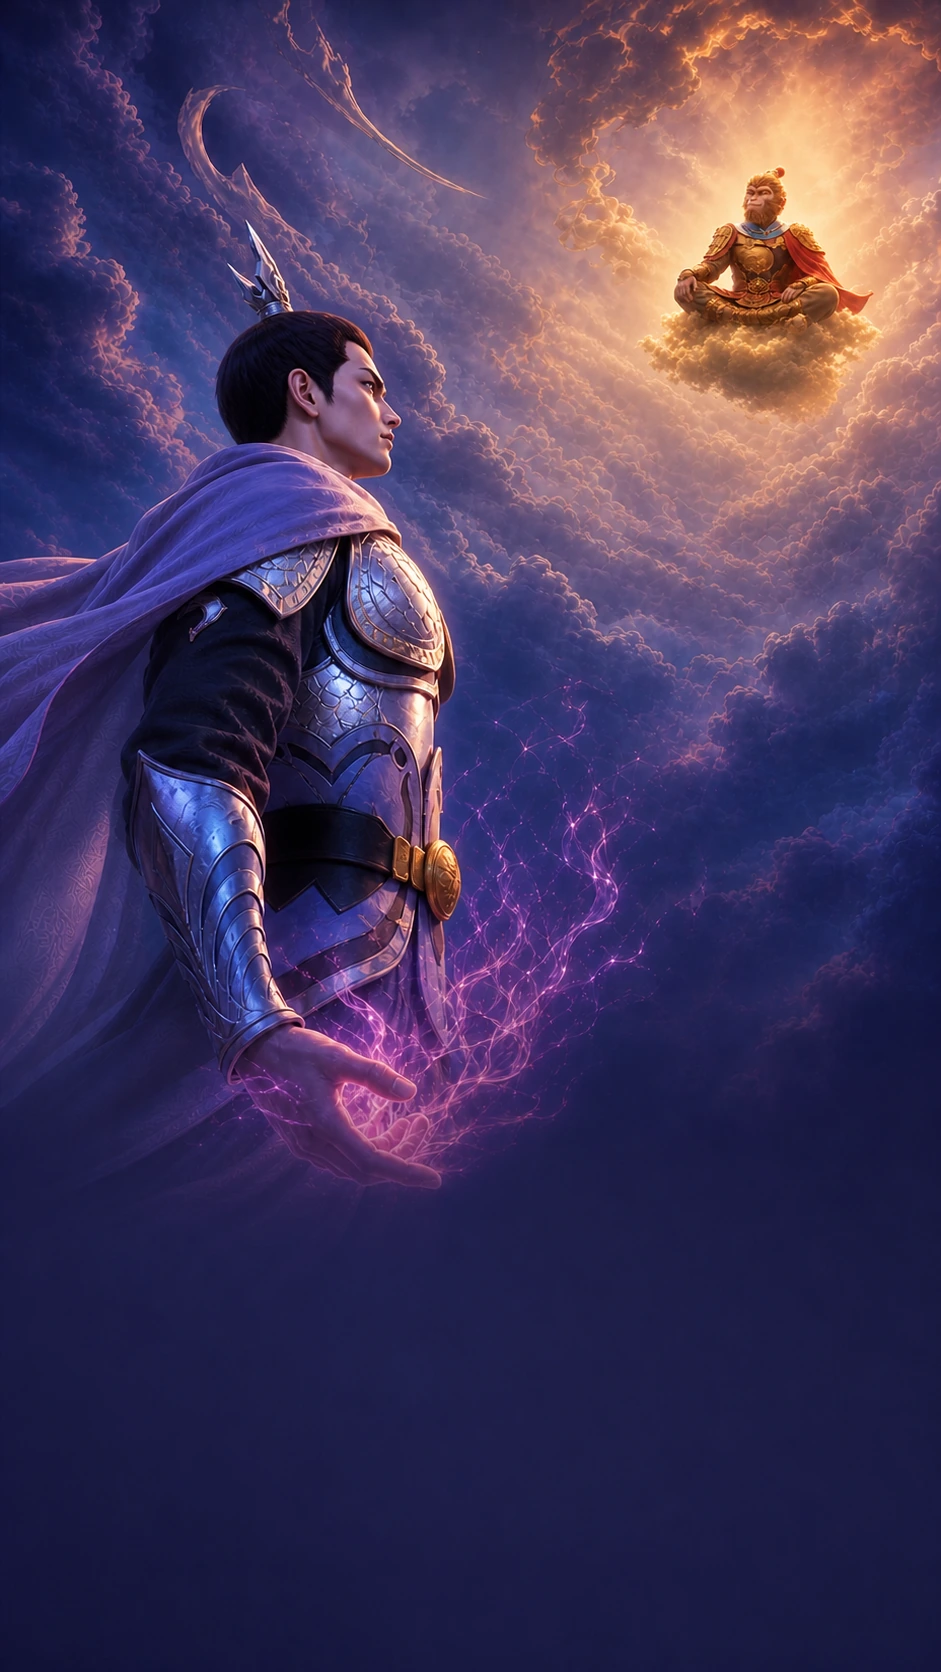
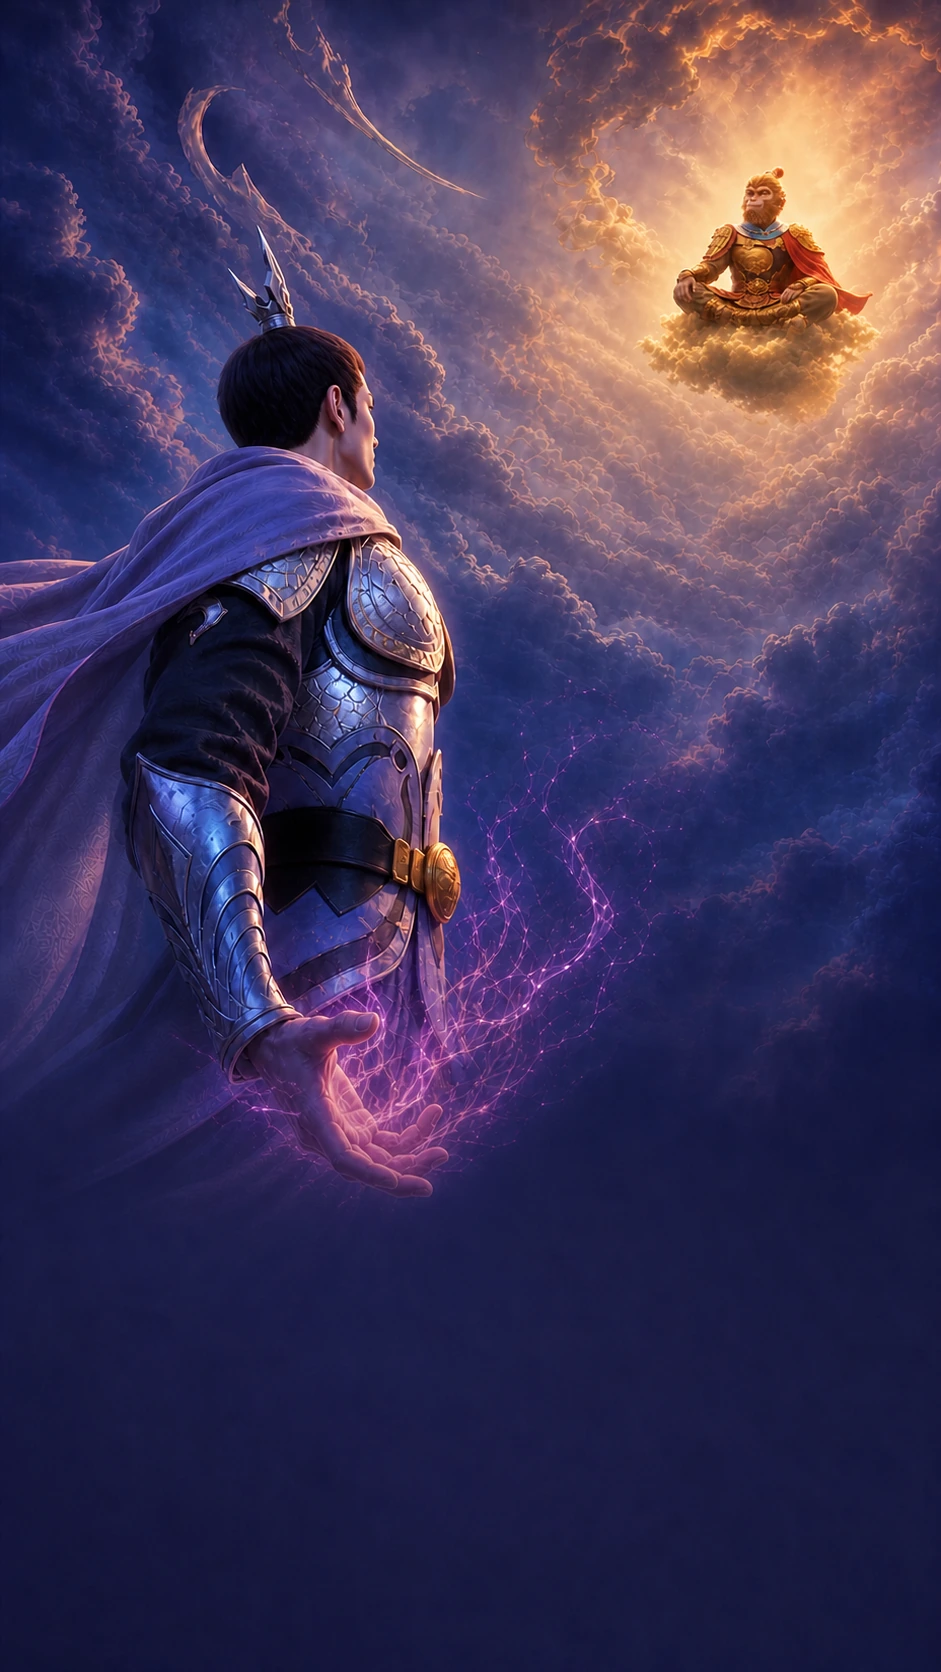
Refine Yang Jian event pose

diff --git a/design/Baxian/event-baxian-juli-v1/README.md b/design/Baxian/event-baxian-juli-v1/README.md
@@ -38,7 +38,7 @@
 
 ## 设计约束
 
-- 杨戬使用电影银蓝甲胄、浅色披风及双叉束冠造型，以侧面表达克制怒意。
+- 杨戬使用电影银蓝甲胄、浅色披风及双叉束冠造型；背侧朝向孙悟空，仅露约 1/6 侧脸，通过紧绷侧脸与外翻施力手掌表达克制怒意。
 - 孙悟空使用电影成熟长脸、金棕毛发、蓝领红披风与金甲造型。
 - 两人只呈现对峙，不进入直接战斗。
 - 页面底部不应追加高亮纹样，以免破坏正文可读性。
